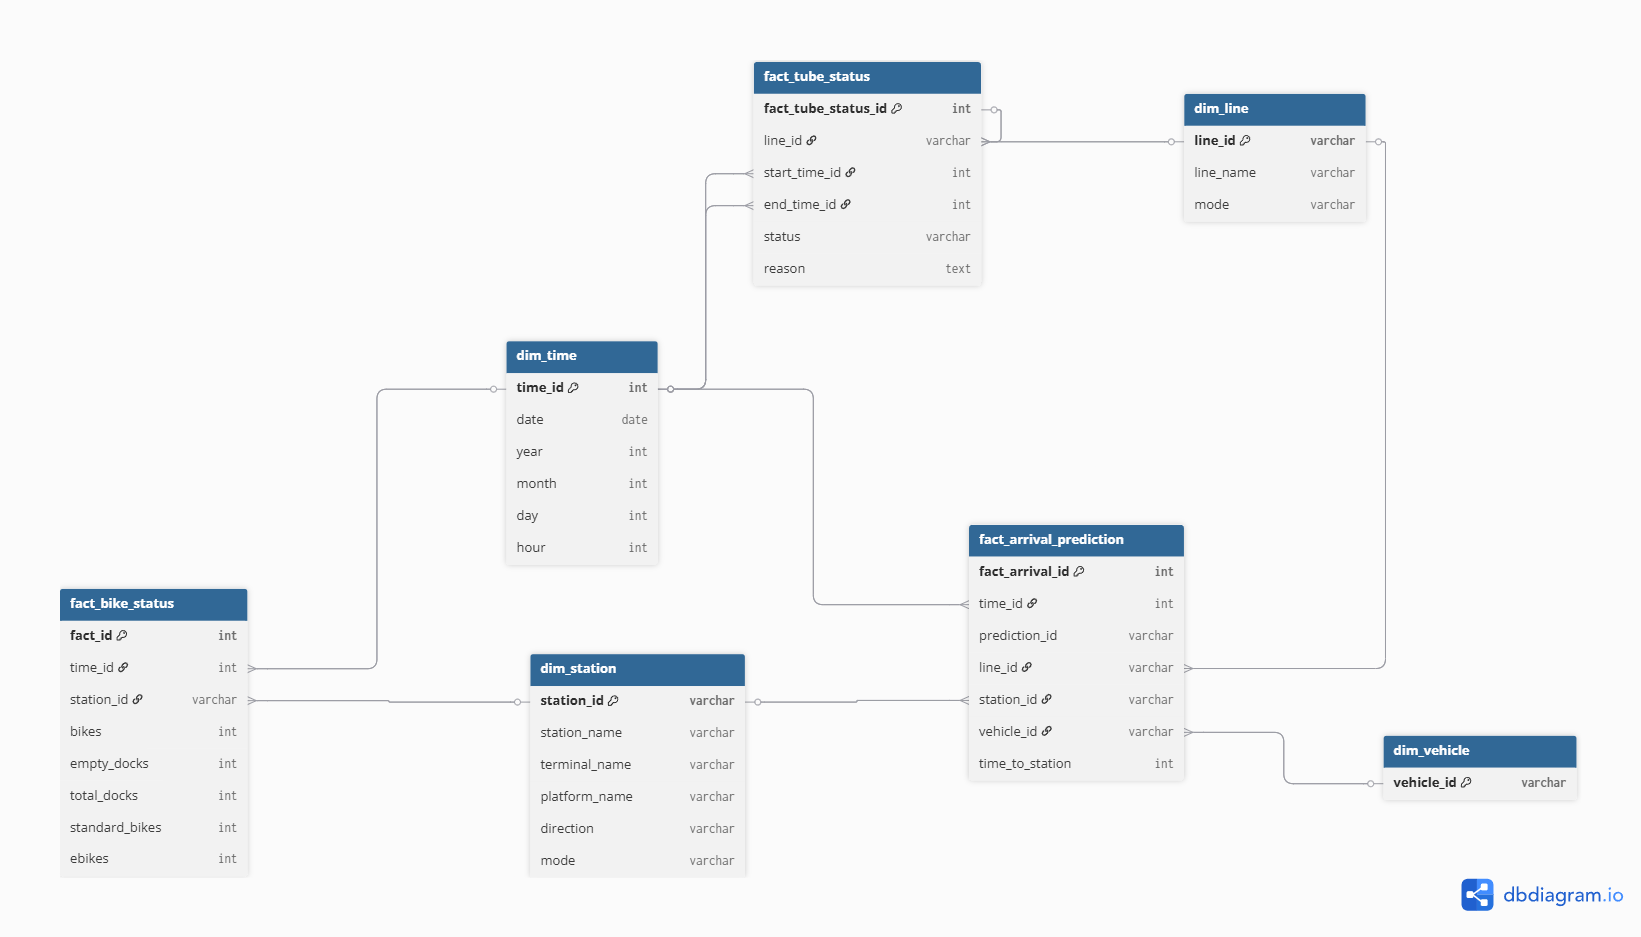
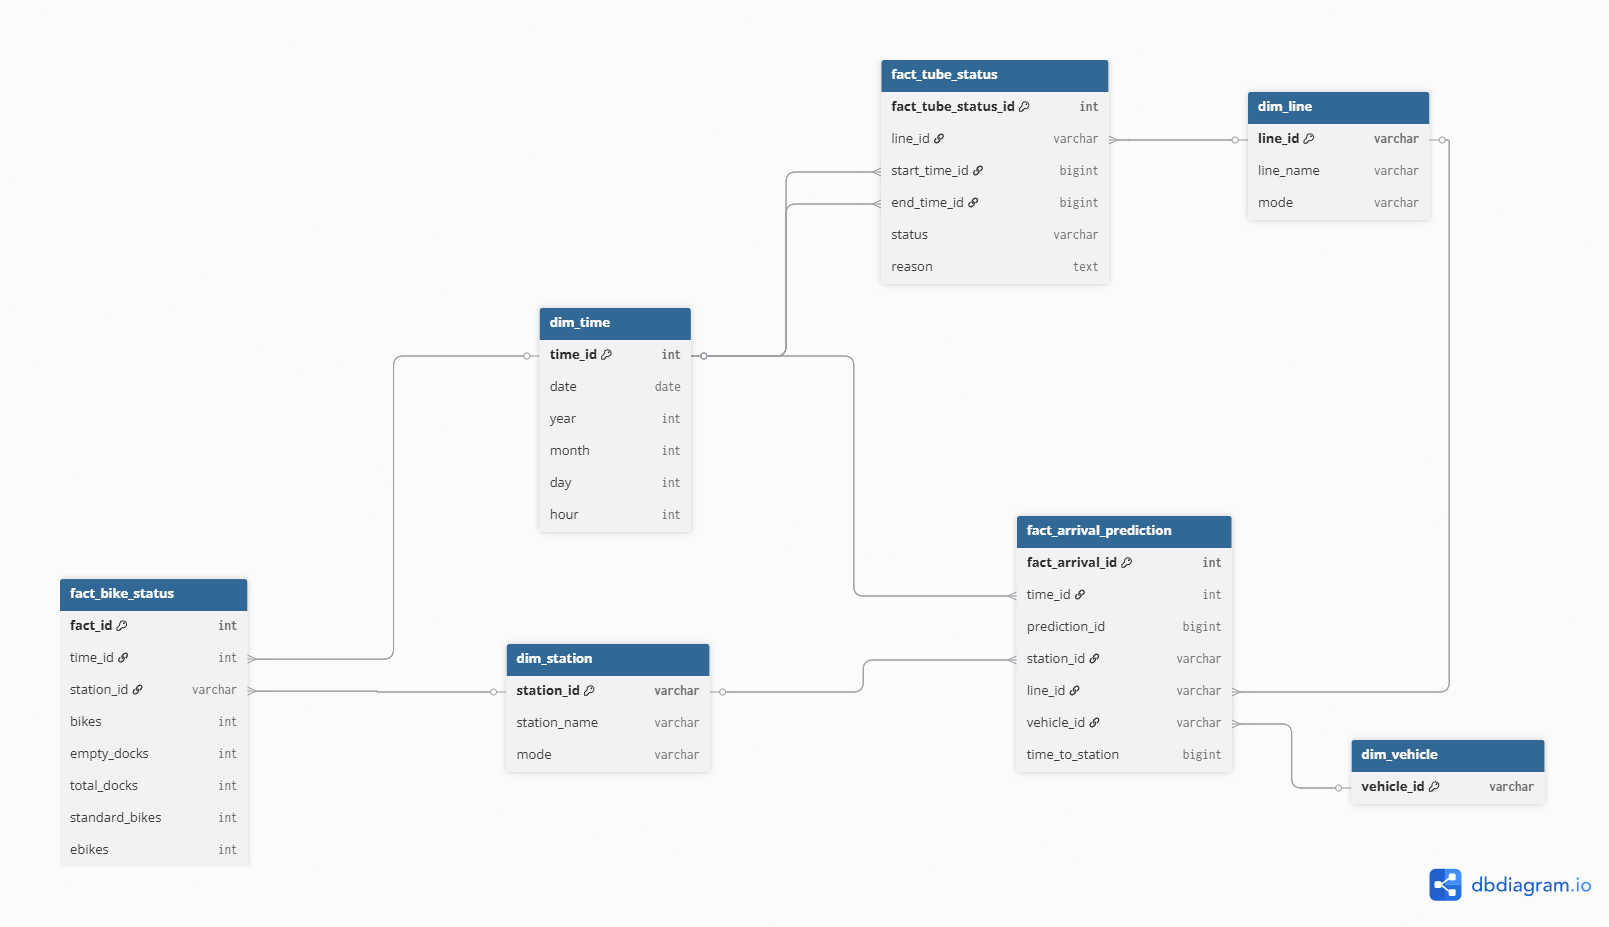
transform ok

diff --git a/src/transform/transform.py b/src/transform/transform.py
@@ -68,11 +68,11 @@ def transform_bikepoint(df: DataFrame) -> tuple[DataFrame, DataFrame]:
         col("NbBikes") + col("NbEmptyDocks") == col("NbDocks")
     )
 
-    dim_station = df_final.select("id", "commonName", "TerminalName", "mode")
+    dim_station = df_final.select("id", "commonName", "mode")
 
-    fact_bike_status = df_final.select("id", "NbBikes", "NbEmptyDocks", "NbDocks", "NbStandardBikes", "NbEBikes")
+    fact_bike_status = df_final.select("id", "commonName", "NbBikes", "NbEmptyDocks", "NbDocks", "NbStandardBikes", "NbEBikes")
 
-    return fact_bike_status, dim_station
+    return dim_station, fact_bike_status
 
 def transform_arrivals(df: DataFrame) -> tuple[DataFrame, DataFrame, DataFrame, DataFrame]:
     df = df.select("id", "naptanId", "timeToStation", "vehicleId", "lineId", "lineName", "modeName", "stationName", "platformName", "direction", "timestamp")
@@ -90,20 +90,15 @@ def transform_arrivals(df: DataFrame) -> tuple[DataFrame, DataFrame, DataFrame, 
     dim_line = dim_line.dropna()
     dim_station = dim_station.dropna()
 
-    dim_vehicle = dim_vehicle.drop_duplicates()
-    # fact_arrival = fact_arrival.drop_duplicates() AQUI NO ID DA FACT ????
-    # dim_station = dim_station.drop_duplicates() AQUI NO ID DA station ????
-    # dim_line = dim_line.drop_duplicates() AQUI NA IDLINE ????
+    fact_arrival = fact_arrival.drop_duplicates(subset=['id'])
+    dim_vehicle = dim_vehicle.drop_duplicates(subset=['vehicleId'])
+    dim_line = dim_line.drop_duplicates(subset=['lineId'])
+    dim_station = dim_station.drop_duplicates(subset=['naptanId'])
 
-    dim_station.printSchema()
-    dim_line.printSchema()
-    dim_vehicle.printSchema()
-    fact_arrival.printSchema()
-
-    # cast id bigint
+    fact_arrival = fact_arrival.withColumn("id", col("id").cast("bigint"))
 
 
-    return fact_arrival, dim_vehicle, dim_line, dim_station
+    return dim_vehicle, dim_line, dim_station, fact_arrival
 
 def transform_status(df: DataFrame) -> tuple[DataFrame, DataFrame]:
     df_exploded = df.select(
@@ -140,7 +135,7 @@ def transform_status(df: DataFrame) -> tuple[DataFrame, DataFrame]:
     fact_tube_status = fact_tube_status.withColumn("start_time", col("start_time").cast("timestamp"))
     fact_tube_status = fact_tube_status.withColumn("end_time", col("end_time").cast("timestamp"))
 
-    return fact_tube_status, dim_line
+    return dim_line, fact_tube_status
 
 def run_transform():
     # bikepoint_df = read_data("data/raw/bikepoint")
